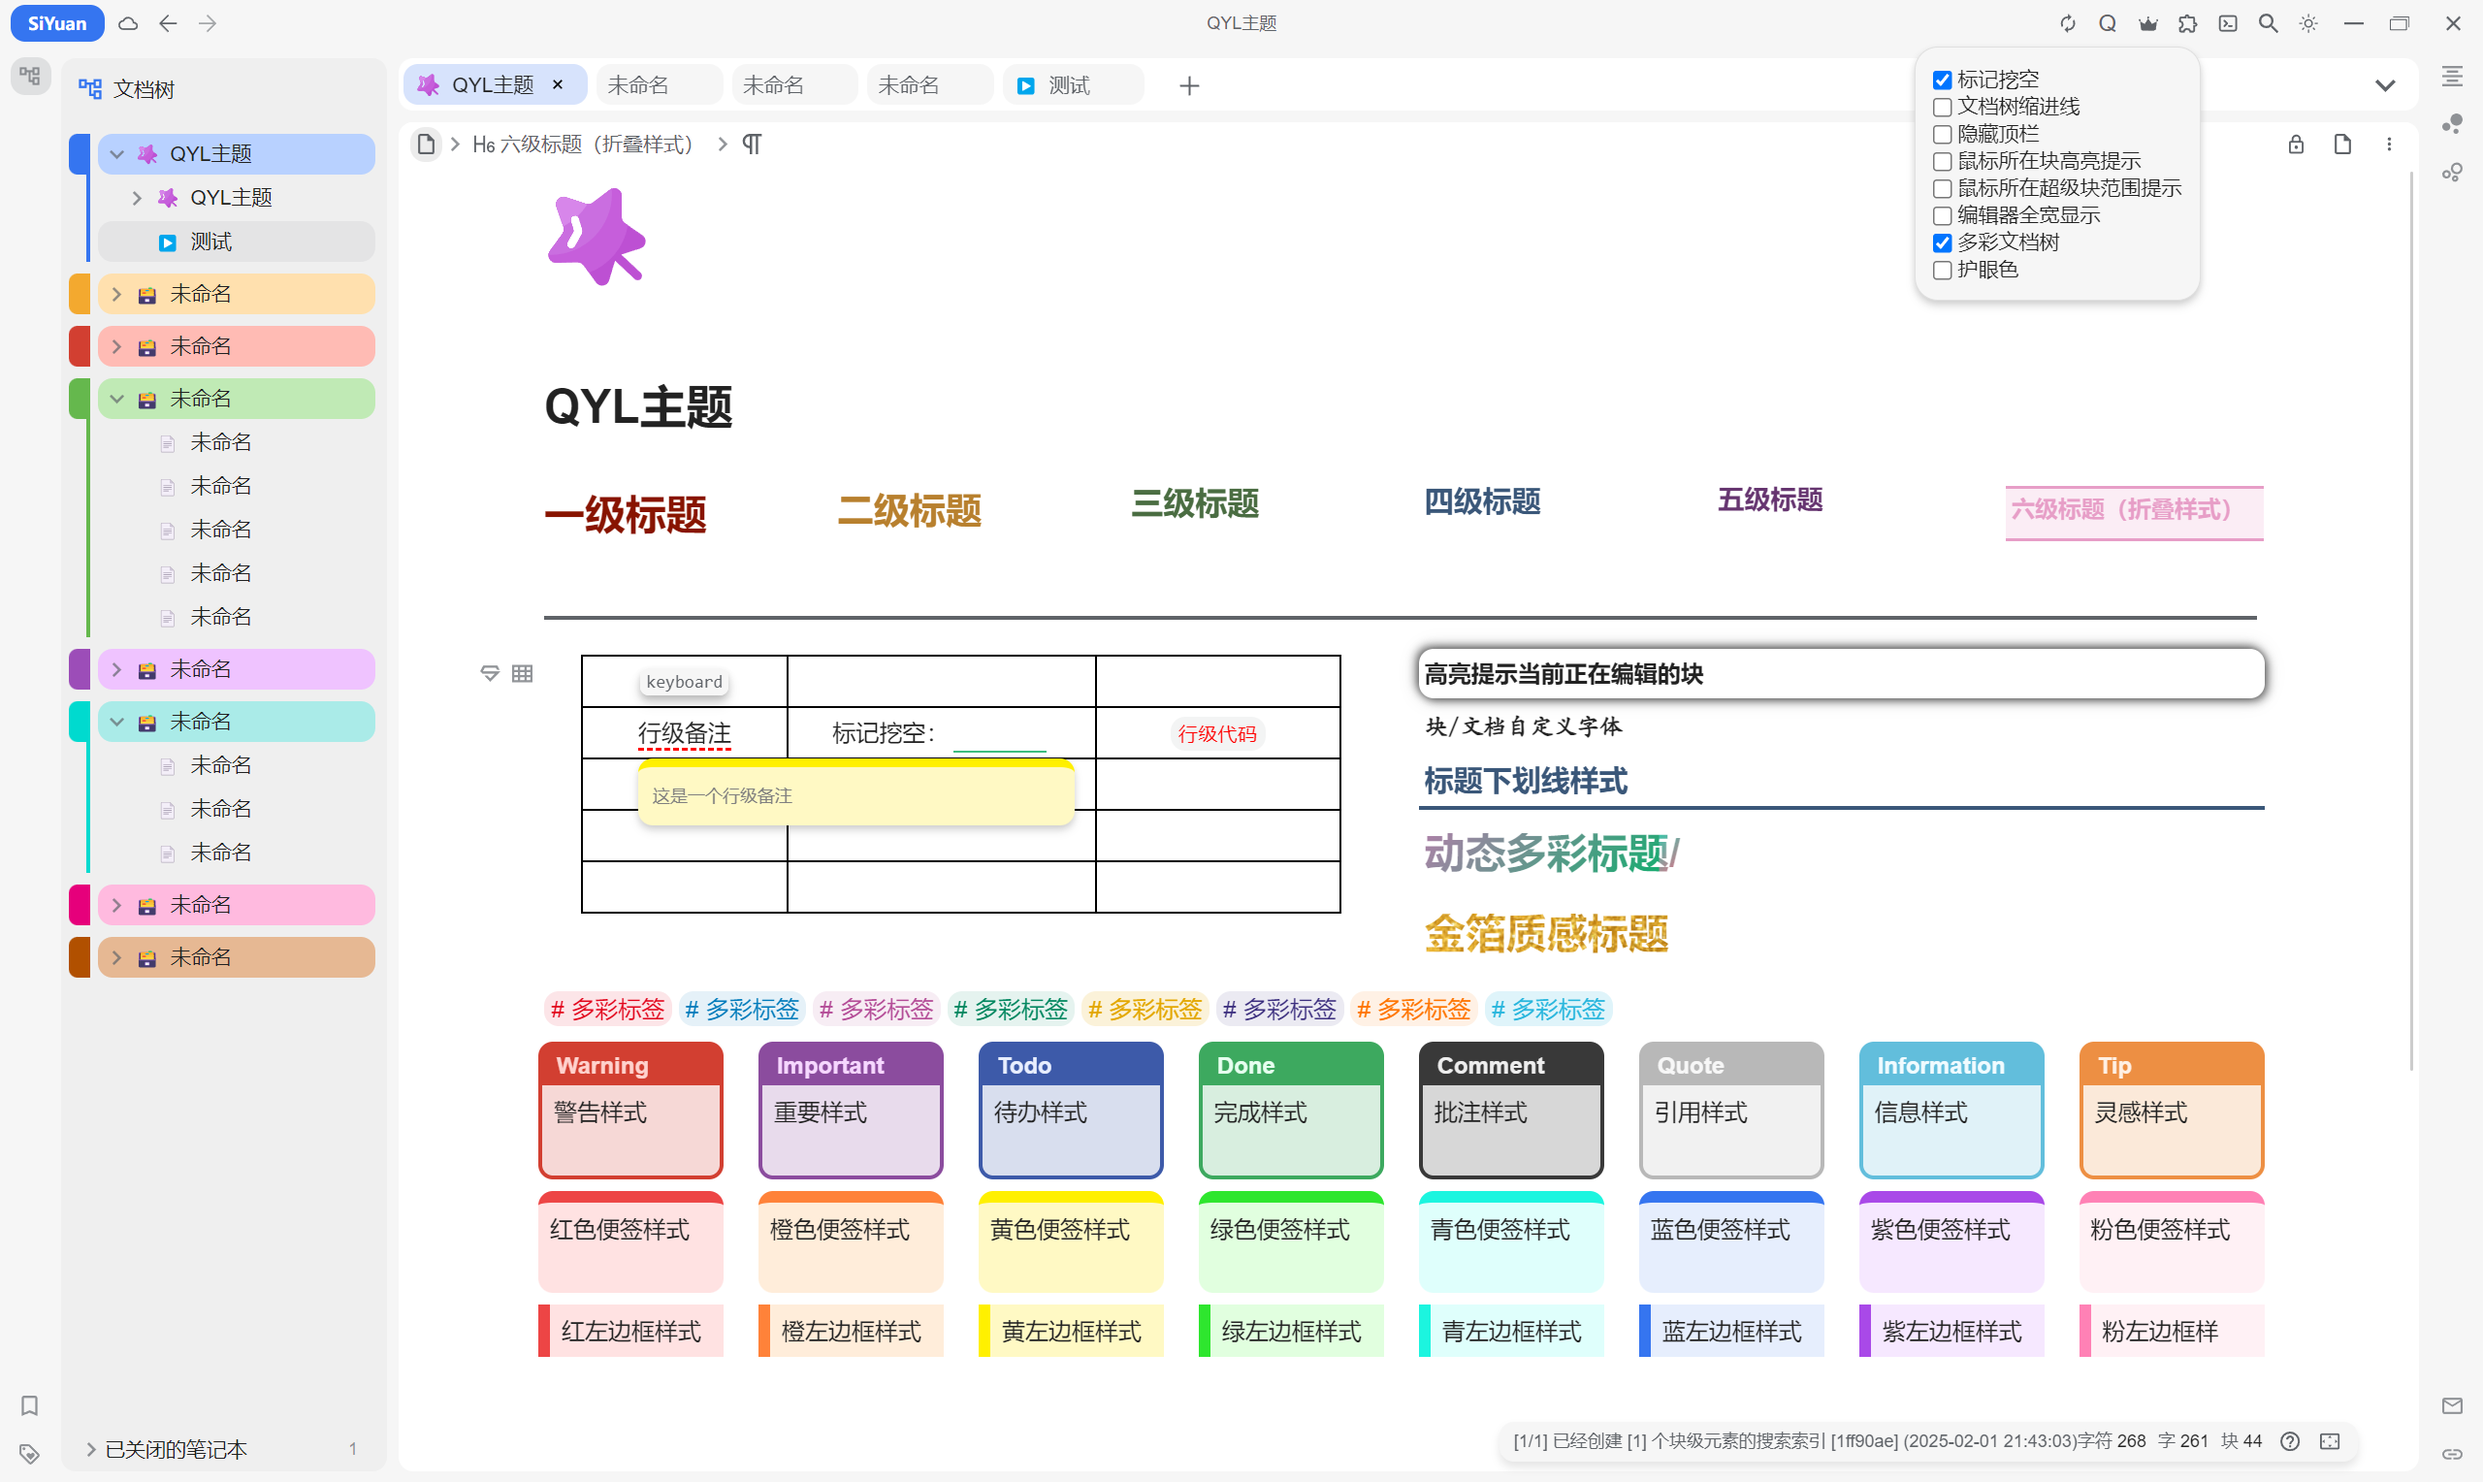
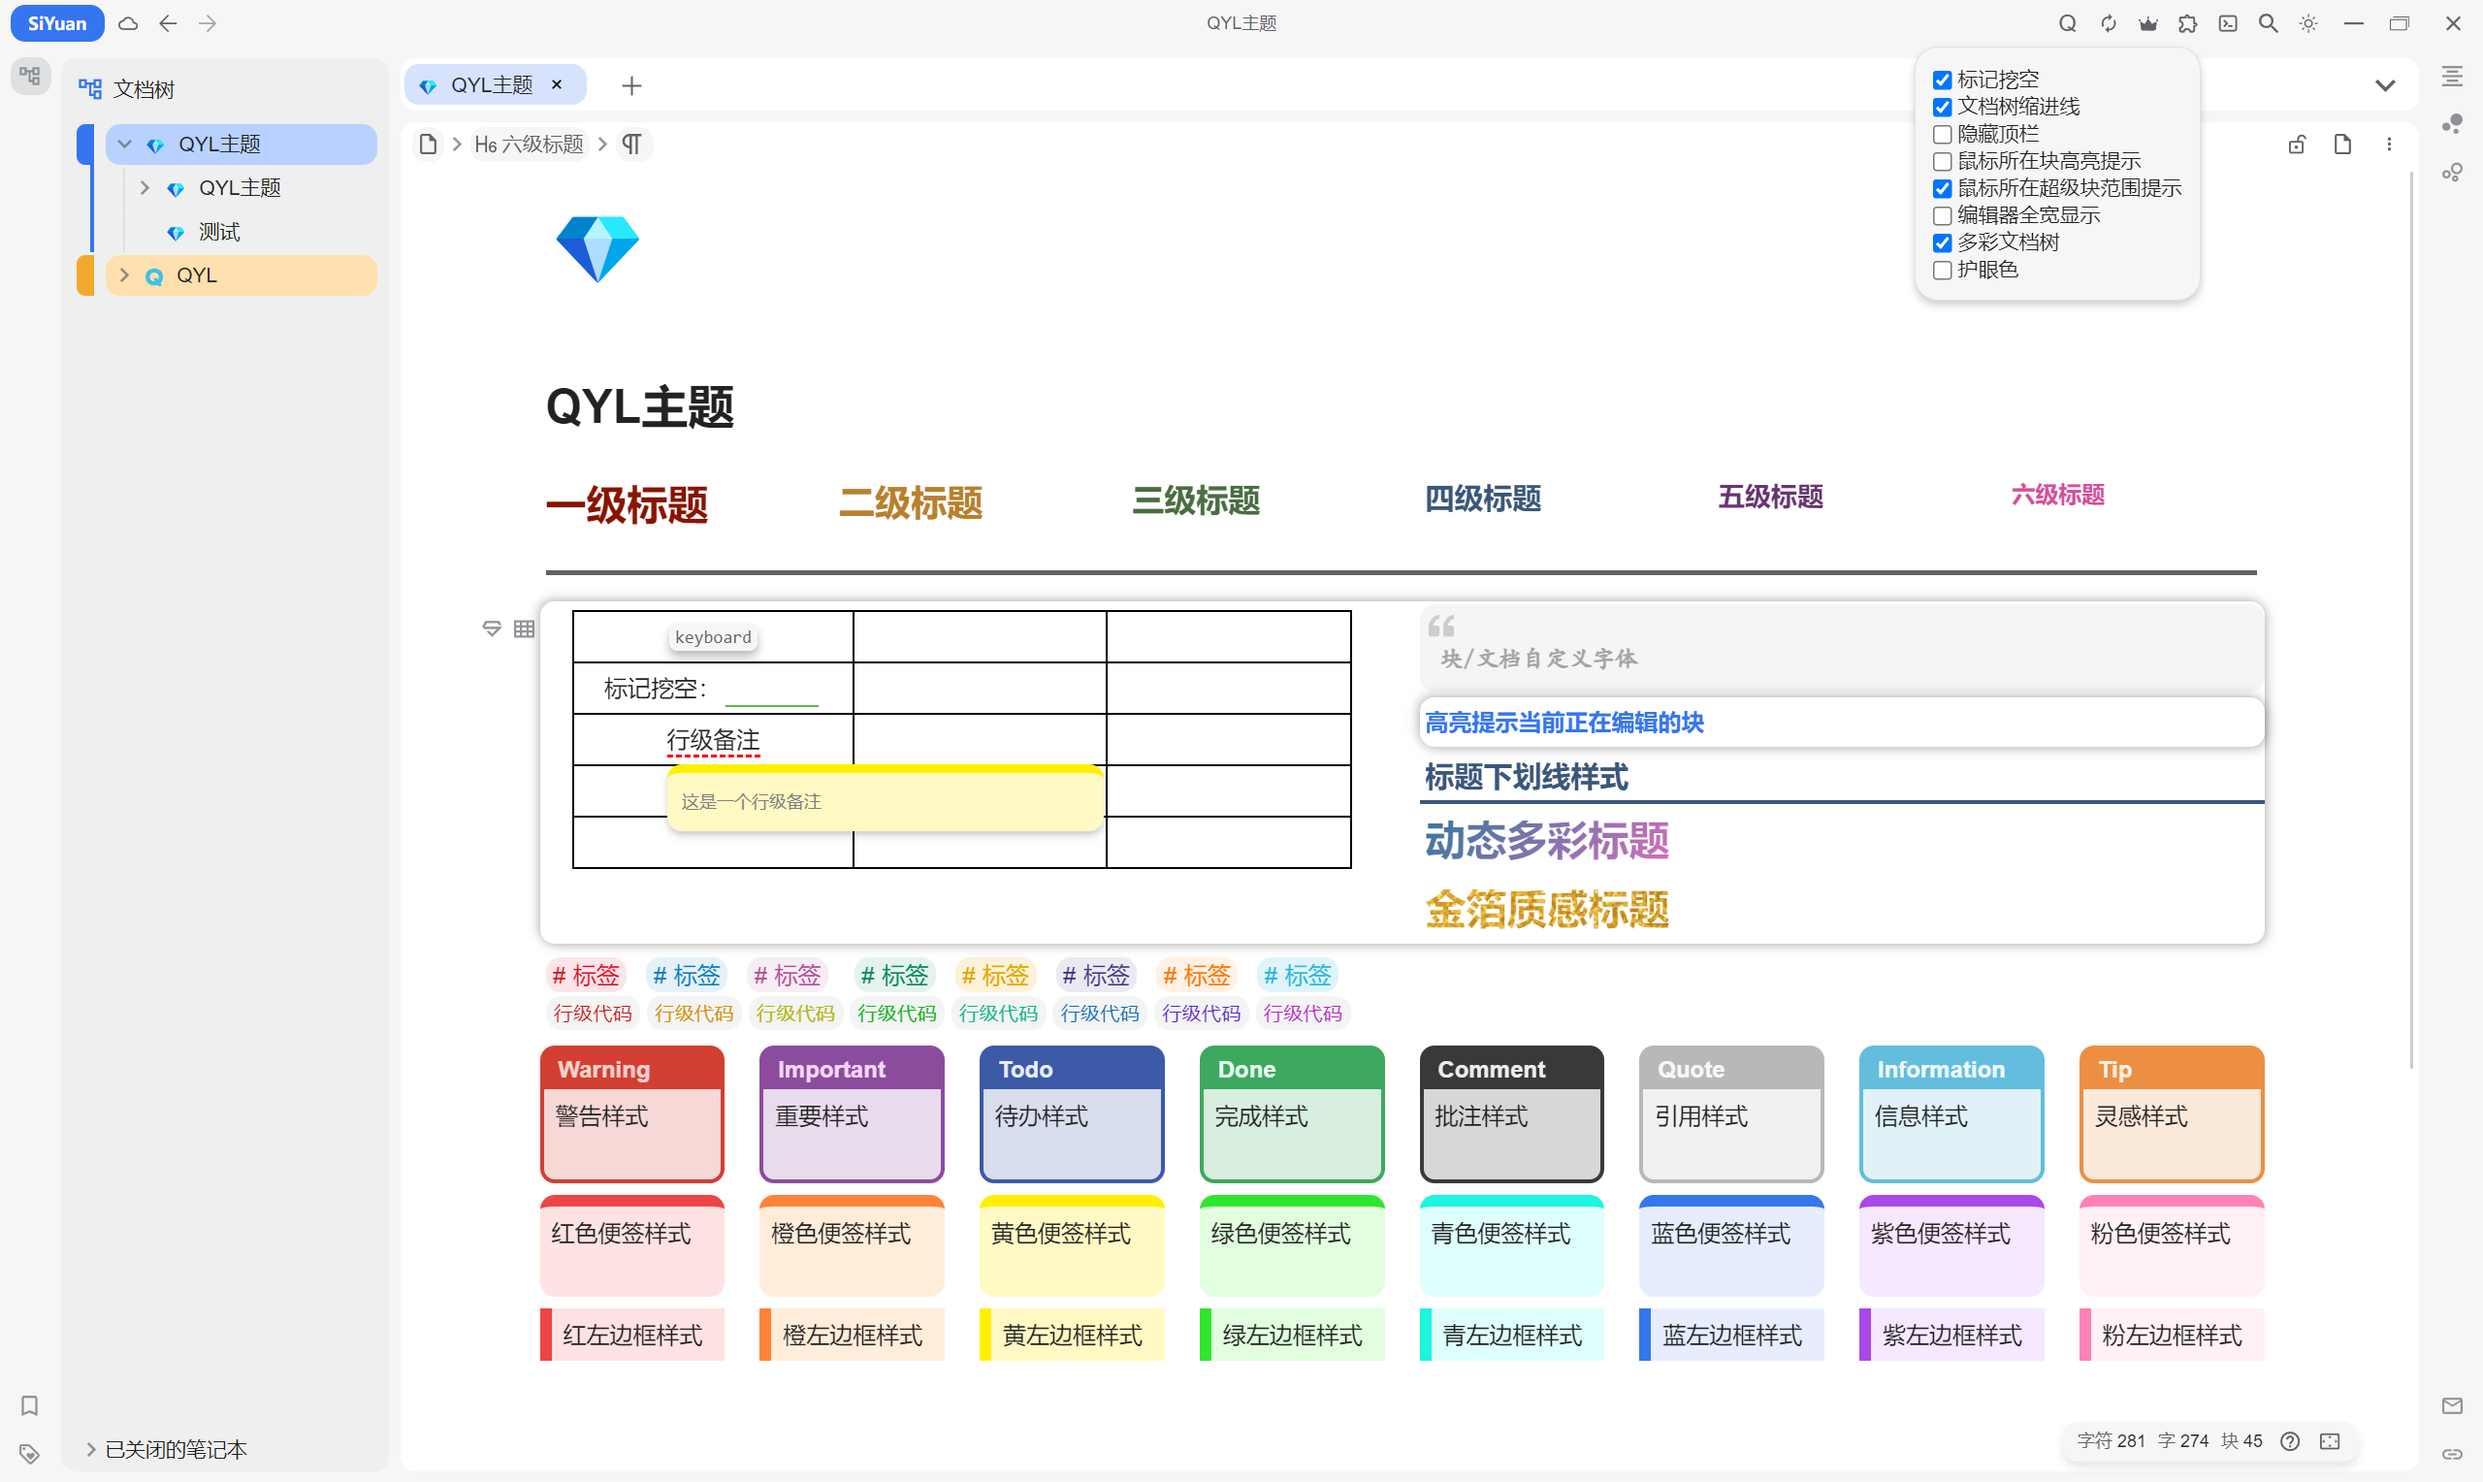
Add files via upload

diff --git a/theme.css b/theme.css
@@ -50,6 +50,19 @@
     --b3-width-transition: width .1s cubic-bezier(0, 0, .1, 1) 0ms;
     --b3-color-transition: color .1s cubic-bezier(0, 0, .1, 1) 0ms;
     --b3-background-transition: background 10ms ease-in 0s;
+
+    /* PDF */
+    --b3-pdf-selection: #94ff71;
+    --sidebar-width: 200px;
+    --b3-pdf-offset: 0;
+    --b3-pdf-background1: rgb(255, 195, 195);
+    --b3-pdf-background2: #ffcba5;
+    --b3-pdf-background3: #ffda83;
+    --b3-pdf-background4: #b1eda2;
+    --b3-pdf-background5: #85efe6;
+    --b3-pdf-background6: #a3d3ff;
+    --b3-pdf-background7: #f3c5ff;
+    --b3-pdf-dark: #292a2b;
 }
 
 /* 斜杠菜单展开 */
@@ -898,12 +911,14 @@ li.b3-list-item.b3-list-item--hide-action[data-subtype="h6"] .b3-list-item__grap
     border-radius: var(--b3-border-radius);
 }
 .protyle-wysiwyg[data-readonly=true] .av .av__celltext--url, .av__celltext.av__celltext--url, .av__celltext--url.b3-chip {
-    background-color: rgba(38, 187, 170, 0.1);
+    background-color: rgba(38, 187, 170, 0.2);
     color: #1aac9b;
     border-bottom: none;
 }
 .protyle-wysiwyg[data-readonly=true] .av .av__celltext--url:hover, .av__celltext.av__celltext--url:hover, .av__celltext--url.b3-chip:hover {
-    background-color: rgba(38, 187, 170, 0.4);
+    background-color: rgba(26, 172, 155, 0.7);
+    color: white;
+    transition: 0.1s;
 }
 .block__icon[data-type="av-add"] {
     margin-top: 8px;
@@ -1035,6 +1050,146 @@ li.b3-list-item.b3-list-item--hide-action[data-subtype="h6"] .b3-list-item__grap
 .protyle-wysiwyg [data-node-id][custom-h-style="下划线"] {
     border-radius: 0px;
     border-bottom: 3px solid;
+}
+[custom-h-style="下划线"] [data-type="NodeHeading"] {
+    border-radius: 0px;
+    border-bottom: 3px solid;
+}
+.protyle-wysiwyg [custom-h-style="层级"].h1:before,
+.protyle-wysiwyg [data-node-id][custom-h-style="层级"].h1:before {
+    content: "";
+    position: absolute;
+    left: -13px;
+    top: 16px;
+    width: 100%;
+    height: 100%;
+    background: url('img/一级标题.svg');
+    background-repeat: no-repeat;
+    background-size: 8px 8px;
+}
+[custom-h-style="层级"] [data-type="NodeHeading"].h1:before {
+    content: "";
+    position: absolute;
+    left: -13px;
+    top: 16px;
+    width: 100%;
+    height: 100%;
+    background: url('img/一级标题.svg');
+    background-repeat: no-repeat;
+    background-size: 8px 8px;
+}
+.protyle-wysiwyg [custom-h-style="层级"].h2:before,
+.protyle-wysiwyg [data-node-id][custom-h-style="层级"].h2:before {
+    content: "";
+    position: absolute;
+    left: -25px;
+    top: 1px;
+    width: 100%;
+    height: 100%;
+    background: url('img/二级标题.svg');
+    background-repeat: no-repeat;
+    background-size: 35px 35px;
+}
+[custom-h-style="层级"] [data-type="NodeHeading"].h2:before {
+    content: "";
+    position: absolute;
+    left: -25px;
+    top: 1px;
+    width: 100%;
+    height: 100%;
+    background: url('img/二级标题.svg');
+    background-repeat: no-repeat;
+    background-size: 35px 35px;
+}
+.protyle-wysiwyg [custom-h-style="层级"].h3:before,
+.protyle-wysiwyg [data-node-id][custom-h-style="层级"].h3:before {
+    content: "";
+    position: absolute;
+    left: -20px;
+    top: 5px;
+    width: 100%;
+    height: 100%;
+    background: url('img/三级标题.svg');
+    background-repeat: no-repeat;
+    background-size: 25px 25px;
+}
+[custom-h-style="层级"] [data-type="NodeHeading"].h3:before {
+    content: "";
+    position: absolute;
+    left: -20px;
+    top: 5px;
+    width: 100%;
+    height: 100%;
+    background: url('img/三级标题.svg');
+    background-repeat: no-repeat;
+    background-size: 25px 25px;
+}
+.protyle-wysiwyg [custom-h-style="层级"].h4:before,
+.protyle-wysiwyg [data-node-id][custom-h-style="层级"].h4:before {
+    content: "";
+    position: absolute;
+    left: -17px;
+    top: 8px;
+    width: 100%;
+    height: 100%;
+    background: url('img/四级标题.svg');
+    background-repeat: no-repeat;
+    background-size: 15px 15px;
+}
+[custom-h-style="层级"] [data-type="NodeHeading"].h4:before {
+    content: "";
+    position: absolute;
+    left: -17px;
+    top: 8px;
+    width: 100%;
+    height: 100%;
+    background: url('img/四级标题.svg');
+    background-repeat: no-repeat;
+    background-size: 15px 15px;
+}
+.protyle-wysiwyg [custom-h-style="层级"].h5:before,
+.protyle-wysiwyg [data-node-id][custom-h-style="层级"].h5:before {
+    content: "";
+    position: absolute;
+    left: -20px;
+    width: 100%;
+    height: 100%;
+    background: url('img/五级标题.svg');
+    background-repeat: no-repeat;
+    background-size: 20px 20px;
+}
+[custom-h-style="层级"] [data-type="NodeHeading"].h5:before {
+    content: "";
+    position: absolute;
+    left: -20px;
+    width: 100%;
+    height: 100%;
+    background: url('img/五级标题.svg');
+    background-repeat: no-repeat;
+    background-size: 20px 20px;
+}
+.protyle-wysiwyg [custom-h-style="层级"].h6:before,
+.protyle-wysiwyg [data-node-id][custom-h-style="层级"].h6:before {
+    content: "";
+    position: absolute;
+    left: -18px;
+    top: 6px;
+    width: 100%;
+    height: 100%;
+    background: url('img/六级标题.svg');
+    background-repeat: no-repeat;
+    background-size: 15px 15px;
+}
+[custom-h-style="层级"] [data-type="NodeHeading"].h6:before {
+    content: "";
+    position: absolute;
+    left: -18px;
+    top: 6px;
+    width: 100%;
+    height: 100%;
+    background: url('img/六级标题.svg');
+    background-repeat: no-repeat;
+    background-size: 15px 15px;
 }
 
 /* 自定义块属性background */
@@ -1403,4 +1558,118 @@ span[data-type~=mark],mark {
 .protyle-breadcrumb__item:hover {
     background: var(--hovercurrent);
     transition: 0.3s;
+}
+
+/* 数据库chip颜色 */
+.custom-attr__avvalue .b3-chip[style*="color1)"], 
+.av__cell .b3-chip[style*="color1)"], 
+.av__panel .b3-chip[style*="color1)"], 
+[data-name="av-col-option"] .color__square[style*="color1)"], 
+.b3-menu__label .b3-chip[data-color="1"] {
+    color: rgb(70, 67, 67) !important;
+    background-color: rgb(255, 204, 204) !important;
+}
+.custom-attr__avvalue .b3-chip[style*="color2)"], 
+.av__cell .b3-chip[style*="color2)"], 
+.av__panel .b3-chip[style*="color2)"], 
+[data-name="av-col-option"] .color__square[style*="color2)"], 
+.b3-menu__label .b3-chip[data-color="2"] {
+    color: rgb(70, 67, 67) !important;
+    background-color: rgb(255, 210, 184) !important;
+}
+.custom-attr__avvalue .b3-chip[style*="color3)"], 
+.av__cell .b3-chip[style*="color3)"], 
+.av__panel .b3-chip[style*="color3)"], 
+[data-name="av-col-option"] .color__square[style*="color3)"], 
+.b3-menu__label .b3-chip[data-color="3"] {
+    color: rgb(70, 67, 67) !important;
+    background-color: rgb(194, 224, 255) !important;
+}
+.custom-attr__avvalue .b3-chip[style*="color4)"], 
+.av__cell .b3-chip[style*="color4)"], 
+.av__panel .b3-chip[style*="color4)"], 
+[data-name="av-col-option"] .color__square[style*="color4)"], 
+.b3-menu__label .b3-chip[data-color="4"] {
+    color: rgb(70, 67, 67) !important;
+    background-color: rgb(195, 241, 198) !important;
+}
+.custom-attr__avvalue .b3-chip[style*="color5)"], 
+.av__cell .b3-chip[style*="color5)"], 
+.av__panel .b3-chip[style*="color5)"], 
+[data-name="av-col-option"] .color__square[style*="color5)"], 
+.b3-menu__label .b3-chip[data-color="5"] {
+    color: rgb(70, 67, 67) !important;
+    background-color: rgb(224, 224, 224) !important;
+}
+.custom-attr__avvalue .b3-chip[style*="color6)"], 
+.av__cell .b3-chip[style*="color6)"], 
+.av__panel .b3-chip[style*="color6)"], 
+[data-name="av-col-option"] .color__square[style*="color6)"], 
+.b3-menu__label .b3-chip[data-color="6"] {
+    color: rgb(70, 67, 67) !important;
+    background-color: rgb(219, 199, 255) !important;
+}
+.custom-attr__avvalue .b3-chip[style*="color7)"], 
+.av__cell .b3-chip[style*="color7)"], 
+.av__panel .b3-chip[style*="color7)"], 
+[data-name="av-col-option"] .color__square[style*="color7)"], 
+.b3-menu__label .b3-chip[data-color="7"] {
+    color: rgb(70, 67, 67) !important;
+    background-color: rgb(255, 186, 253) !important;
+}
+.custom-attr__avvalue .b3-chip[style*="color8)"], 
+.av__cell .b3-chip[style*="color8)"], 
+.av__panel .b3-chip[style*="color8)"], 
+[data-name="av-col-option"] .color__square[style*="color8)"], 
+.b3-menu__label .b3-chip[data-color="8"] {
+    color: rgb(70, 67, 67) !important;
+    background-color: rgb(241, 248, 146) !important;
+}
+.custom-attr__avvalue .b3-chip[style*="color9)"], 
+.av__cell .b3-chip[style*="color9)"], 
+.av__panel .b3-chip[style*="color9)"], 
+[data-name="av-col-option"] .color__square[style*="color9)"], 
+.b3-menu__label .b3-chip[data-color="9"] {
+    color: rgb(70, 67, 67) !important;
+    background-color: rgb(186, 193, 255) !important;
+}
+.custom-attr__avvalue .b3-chip[style*="color10)"], 
+.av__cell .b3-chip[style*="color10)"], 
+.av__panel .b3-chip[style*="color10)"], 
+[data-name="av-col-option"] .color__square[style*="color10)"], 
+.b3-menu__label .b3-chip[data-color="10"] {
+    color: rgb(70, 67, 67) !important;
+    background-color: rgb(194, 242, 255) !important;
+}
+.custom-attr__avvalue .b3-chip[style*="color11)"], 
+.av__cell .b3-chip[style*="color11)"], 
+.av__panel .b3-chip[style*="color11)"], 
+[data-name="av-col-option"] .color__square[style*="color11)"], 
+.b3-menu__label .b3-chip[data-color="11"] {
+    color: rgb(70, 67, 67) !important;
+    background-color: rgb(255, 203, 227) !important;
+}
+.custom-attr__avvalue .b3-chip[style*="color12)"], 
+.av__cell .b3-chip[style*="color12)"], 
+.av__panel .b3-chip[style*="color12)"], 
+[data-name="av-col-option"] .color__square[style*="color12)"], 
+.b3-menu__label .b3-chip[data-color="12"] {
+    color: rgb(70, 67, 67) !important;
+    background-color: rgb(206, 255, 158) !important;
+}
+.custom-attr__avvalue .b3-chip[style*="color13)"], 
+.av__cell .b3-chip[style*="color13)"], 
+.av__panel .b3-chip[style*="color13)"], 
+[data-name="av-col-option"] .color__square[style*="color13)"], 
+.b3-menu__label .b3-chip[data-color="13"] {
+    color: rgb(218, 218, 218) !important;
+    background-color: rgb(77, 77, 77) !important;
+}
+.custom-attr__avvalue .b3-chip[style*="color14)"], 
+.av__cell .b3-chip[style*="color14)"], 
+.av__panel .b3-chip[style*="color14)"], 
+[data-name="av-col-option"] .color__square[style*="color14)"], 
+.b3-menu__label .b3-chip[data-color="14"] {
+    color: rgb(70, 67, 67) !important;
+    background-color: rgb(198, 212, 255) !important;
 }

diff --git a/README_zh_CN.md b/README_zh_CN.md
@@ -107,10 +107,16 @@
 |`img-border-radius`|包含图片的块/文档|`默认` `图片圆角` `图片圆润`|设置该块/该文档内图片轮廓的圆角矩形弧度|
 |`background`|任意块|`默认` `淡紫粉渐变` `蓝绿色渐变` `蓝色渐变` `红橙色渐变` `淡蓝粉渐变` `灰色渐变` `黑色渐变` `绿色渐变` `红色渐变`|设置该块的背景|
 |`visibility`|任意块|`默认` `模糊` `悬浮显示` `闪烁`|设置该块的显示效果|
-|`h-style`|标题块/文档|`默认` `多彩` `金箔` `下划线`|设置标题块/该文档所有标题块的文字效果|
+|`h-style`|标题块/文档|`默认` `多彩` `金箔` `下划线` `层级`|设置标题块/该文档所有标题块的文字效果|
 |`font-family`|任意块/文档|`默认` `宋体` `幼圆` `黑体` `微软雅黑` `新宋体` `楷体` `隶书` `仿宋` `华文宋体` `华文中宋` `华文仿宋` `华文彩云` `华文新魏` `华文楷体` `华文琥珀` `华文细黑` `华文行楷` `华文隶书` `方正姚体` `方正舒体` `思源宋体` `思源黑体` `苹方` `Times New Roman`|设置该块/文档的字体（本机存在的字体才生效）|
 |`height`|任意块|`默认` `50` `100` `150` `200`|设置该块的最大显示高度（超出部分通过滚动条查看）|
 |`blankblock-remind`|任意块/文档|`默认` `开启`|显示该块/该文档空块的“空空如也”提示|
+
+## v1.4.0
+* 优化PDF标注颜色
+* 优化数据库chip颜色
+* 修复文档自定义属性`h-style="下划线"`未生效的问题
+* `h-style`自定义属性增加`层级`样式，可使标题前出现图标以提示该标题的层级
 
 ## v1.3.9
 * 重做引述块样式
